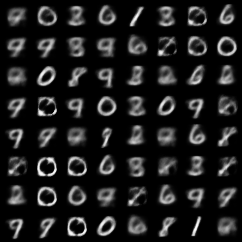
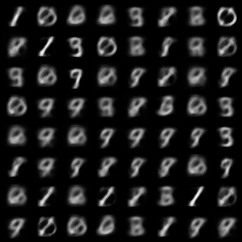
VAE for MNIST with PyTorch

diff --git a/main.py b/main.py
@@ -16,15 +16,15 @@ from torchvision.utils import save_image
 # --- parsing and configuration --- #
 parser = argparse.ArgumentParser(
     description="PyTorch implementation of VAE for MNIST")
-parser.add_argument('--batch-size', type=int, default=128,
+parser.add_argument('--batch-size', type=int, default=64,
                     help='batch size for training (default: 128)')
-parser.add_argument('--epochs', type=int, default=60,
+parser.add_argument('--epochs', type=int, default=1000,
                     help='number of epochs to train (default: 60)')
 parser.add_argument('--z-dim', type=int, default=2,
                     help='dimension of hidden variable Z (default: 2)')
 parser.add_argument('--log-interval', type=int, default=100,
                     help='interval between logs about training status (default: 100)')
-parser.add_argument('--learning-rate', type=int, default=1e-3,
+parser.add_argument('--learning-rate', type=int, default=1e-4,
                     help='learning rate for Adam optimizer (default: 1e-3)')
 parser.add_argument('--prr', type=bool, default=True,
                     help='Boolean for plot-reproduce-result (default: True')
@@ -32,9 +32,9 @@ parser.add_argument('--prr-z1-range', type=int, default=2,
                     help='z1 range for plot-reproduce-result (default: 2)')
 parser.add_argument('--prr-z2-range', type=int, default=2,
                     help='z2 range for plot-reproduce-result (default: 2)')
-parser.add_argument('--prr-z1-interval', type=int, default=0.1,
+parser.add_argument('--prr-z1-interval', type=int, default=0.2,
                     help='interval of z1 for plot-reproduce-result (default: 0.1)')
-parser.add_argument('--prr-z2-interval', type=int, default=0.1,
+parser.add_argument('--prr-z2-interval', type=int, default=0.2,
                     help='interval of z2 for plot-reproduce-result (default: 0.1)')
 
 args = parser.parse_args()

diff --git a/README.md b/README.md
@@ -14,9 +14,9 @@ The following results are made with the default setting. (command: python main.p
 <td> Manifold(num of z = 2) </td>
 </tr>
 <tr>
-<td><img src = 'results/reconstruction_100.png' width = '300px'>
-<td><img src = 'results/sample_100.png' width = '300px'>
-<td><img src = 'results/plot_along_z1_and_z2_axis__100.png' width = '300px'>
+<td><img src = 'results/reconstruction_60.png' width = '300px'>
+<td><img src = 'results/sample_60.png' width = '300px'>
+<td><img src = 'results/plot_along_z1_and_z2_axis__60.png' width = '300px'>
 </tr>
 </table>
 
